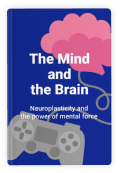
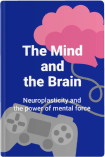
added color to book details header background

diff --git a/lib/utils/data.dart b/lib/utils/data.dart
@@ -1,5 +1,6 @@
 import 'package:books/models/book_model.dart';
 import 'package:books/utils/assets.dart';
+import 'package:flutter/material.dart';
 
 List<BookModel> books = [
   const BookModel(
@@ -35,8 +36,9 @@ List<BookModel> books = [
   const BookModel(
     title: "The Mind and the Brain",
     author: "Jeffrey M. Schwartz",
-    image: Assets.assetsImagesBook3, // Add image path here
+    image: Assets.assetsImagesMainBook, // Add image path here
     time: 9,
+    backgroundColor: Color(0xffB3BDD9),
     chapters: 10,
     insights: 6,
     objectives: [
@@ -66,6 +68,7 @@ List<BookModel> books = [
     title: "The Path Made Clear",
     author: "Oprah Winfrey",
     image: Assets.assetsImagesBook5, // Add image path here
+    backgroundColor: Color(0xffF1D2C1),
     time: 6,
     chapters: 10,
     insights: 4,
@@ -81,6 +84,7 @@ List<BookModel> books = [
     title: "How to Make People Like You in 90 Seconds or Less",
     author: "Nicholas Boothman",
     image: Assets.assetsImagesBook6, // Add image path here
+    backgroundColor: Color(0xffA0A0A0),
     time: 3,
     chapters: 4,
     insights: 2,
@@ -111,6 +115,7 @@ List<BookModel> books = [
     title: "Emotional Intelligence",
     author: "Daniel Goleman",
     image: Assets.assetsImagesBook8, // Add image path here
+    backgroundColor: Color(0xffFFF5E3),
     time: 7,
     chapters: 8,
     insights: 5,

diff --git a/lib/widgets/complition_section.dart b/lib/widgets/complition_section.dart
@@ -1,8 +1,11 @@
 import 'package:books/utils/app_colors.dart';
+import 'package:books/utils/app_router.dart';
 import 'package:books/utils/app_styles.dart';
 import 'package:books/utils/assets.dart';
+import 'package:books/utils/data.dart';
 import 'package:books/widgets/continue_reading_widget.dart';
 import 'package:flutter/material.dart';
+import 'package:go_router/go_router.dart';
 
 class ComplitionSection extends StatelessWidget {
   const ComplitionSection({
@@ -29,7 +32,15 @@ class ComplitionSection extends StatelessWidget {
         const SizedBox(
           height: 15,
         ),
-        const ContinueReadingWidget(),
+        GestureDetector(
+          onTap: () {
+            GoRouter.of(context).push(
+              AppRouter.bookDetailsView,
+              extra: discoveryList[2],
+            );
+          },
+          child: const ContinueReadingWidget(),
+        ),
         const SizedBox(
           height: 18,
         ),

diff --git a/lib/widgets/book_deatils_header.dart b/lib/widgets/book_deatils_header.dart
@@ -16,13 +16,18 @@ class BookDeatilsHeader extends StatelessWidget {
       clipBehavior: Clip.none,
       width: width,
       height: 337,
-      decoration: const BoxDecoration(
-        image: DecorationImage(
-          image: AssetImage(
-            Assets.assetsImagesBackgroundDetails,
-          ),
-          fit: BoxFit.fill,
-        ),
+      decoration: BoxDecoration(
+        color: bookModel.title == "13 Things Mentally Strong People Don't Do"
+            ? null
+            : bookModel.backgroundColor,
+        image: bookModel.title == "13 Things Mentally Strong People Don't Do"
+            ? const DecorationImage(
+                image: AssetImage(
+                  Assets.assetsImagesBackgroundDetails,
+                ),
+                fit: BoxFit.fill,
+              )
+            : null,
       ),
       child: Column(
         children: [

diff --git a/lib/models/book_model.dart b/lib/models/book_model.dart
@@ -1,16 +1,19 @@
+import 'package:flutter/material.dart';
+
 class BookModel {
   final String title, author, image, description;
   final int time, chapters, insights;
   final List<String> objectives;
+  final Color? backgroundColor;
 
-  const BookModel({
-    required this.title,
-    required this.author,
-    required this.image,
-    required this.time,
-    required this.chapters,
-    required this.insights,
-    required this.objectives,
-    required this.description,
-  });
+  const BookModel(
+      {required this.title,
+      required this.author,
+      required this.image,
+      required this.time,
+      required this.chapters,
+      required this.insights,
+      required this.objectives,
+      required this.description,
+      this.backgroundColor});
 }

diff --git a/lib/widgets/discover_list_view_item_widget.dart b/lib/widgets/discover_list_view_item_widget.dart
@@ -1,5 +1,6 @@
 import 'package:books/models/book_model.dart';
 import 'package:books/utils/app_colors.dart';
+import 'package:books/utils/assets.dart';
 
 import 'package:flutter/material.dart';
 
@@ -24,7 +25,9 @@ class DiscoverListViewItemWidget extends StatelessWidget {
           borderRadius: BorderRadius.circular(26),
           image: DecorationImage(
             image: AssetImage(
-              bookModel.image,
+              bookModel.title == "The Mind and the Brain"
+                  ? Assets.assetsImagesBook3
+                  : bookModel.image,
             ),
             fit: BoxFit.fill,
           ),

diff --git a/lib/widgets/continue_reading_widget.dart b/lib/widgets/continue_reading_widget.dart
@@ -11,8 +11,7 @@ class ContinueReadingWidget extends StatelessWidget {
   Widget build(BuildContext context) {
     var width = MediaQuery.sizeOf(context).width;
 
-    double scaleFactor =
-        width * 0.0002; 
+    double scaleFactor = width * 0.0002;
 
     return Stack(
       clipBehavior: Clip.none,
@@ -35,7 +34,7 @@ class ContinueReadingWidget extends StatelessWidget {
                 1 + scaleFactor,
               ),
             child: Image.asset(
-              Assets.assetsImagesMainBook,
+              Assets.assetsImagesComplitionImage,
             ),
           ),
         ),

diff --git a/lib/utils/assets.dart b/lib/utils/assets.dart
@@ -58,6 +58,10 @@ class Assets {
   /// assets/images/Bookmark.svg
   static const String assetsImagesBookmark = "assets/images/Bookmark.svg";
 
+  /// Assets for assetsImagesComplitionImage
+  /// assets/images/complition_image.png
+  static const String assetsImagesComplitionImage = "assets/images/complition_image.png";
+
   /// Assets for assetsImagesImage
   /// assets/images/Image.png
   static const String assetsImagesImage = "assets/images/Image.png";
